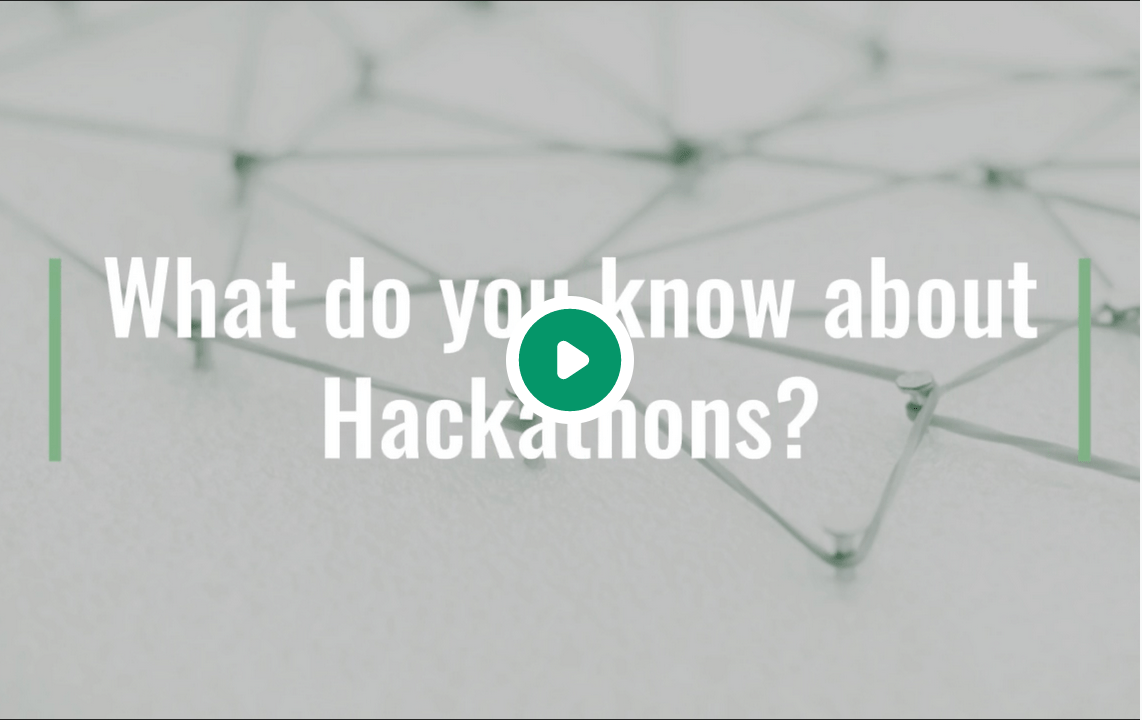
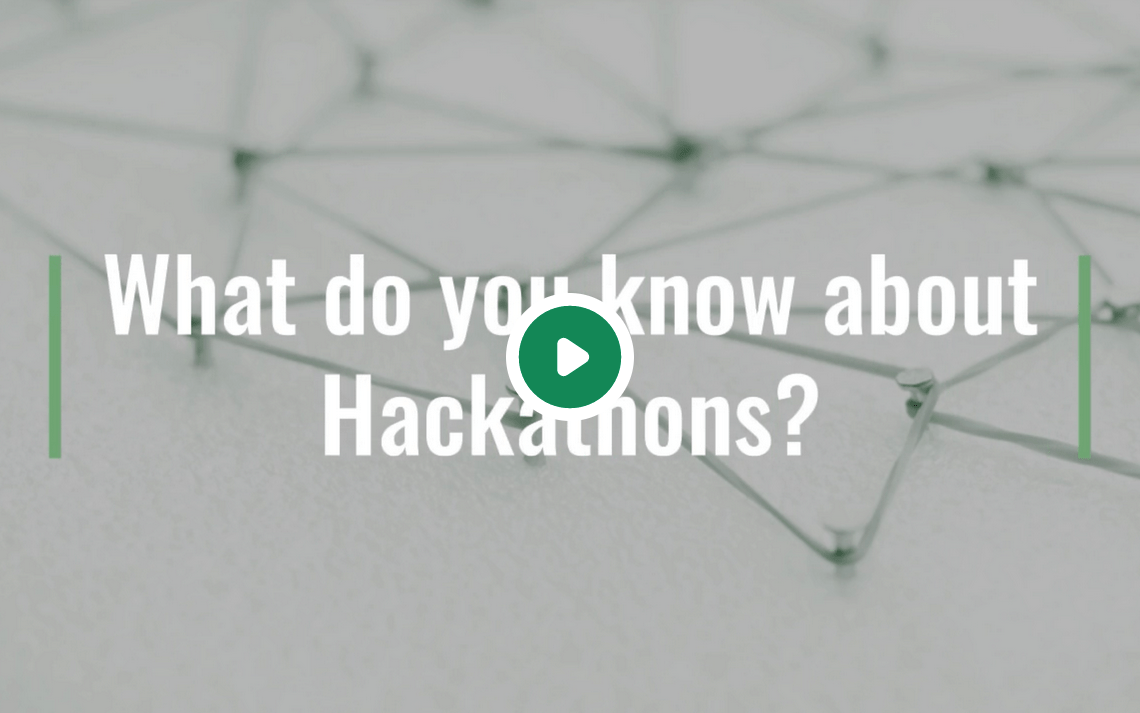
design updated

diff --git a/src/components/home/about.js b/src/components/home/about.js
@@ -14,7 +14,7 @@ const About = () => {
     const questions = [
         {
             title: 'How to Register?',
-            info: `All you need to do is click on the <a target='_blank' rel="noopener noreferrer" href='https://www.eventbrite.ca/e/senecas-sustainability-hackathon-2022-registration-205162405277' class='has-text-bold is-underlined has-text-success'>registration link</a> and register using our eventbrite page.`,
+            info: `All you need to do is click on the <a target='_blank' rel="noopener noreferrer" href='https://www.eventbrite.ca/e/senecas-sustainability-hackathon-2022-registration-205162405277' class='has-text-bold is-underlined has-text-green'>registration link</a> and register using our eventbrite page.`,
             image: image_1
         },
         {
@@ -39,33 +39,42 @@ const About = () => {
             <div className="hero-body hero-body-2">
                 <div className='columns'>
                     <div className='column is-10 is-offset-1'>
-                        <h1 className="title">What is a Hackathon?</h1>
-                        <div className="card">
-                            <div className="card-content min-height-365">
-                                <div className="content columns flex-wrap">
-                                    <div className='column is-6-desktop is-12-tablet video-container'> 
-                                        {video_clicked 
-                                        ? 
-                                            <ReactPlayer
-                                                url="https://www.youtube.com/watch?v=foA8JE2WcJk"
-                                                controls={true}
-                                                width="100%"
-                                                height="316px"
-                                                playing={true}
-                                            />
-                                        : 
-                                            <img src={video_thumbnail} alt="What is a Hackathon?" className='pointer is-marginless' width="100%" onClick={() => {playVideoOnClick(true)}}/>
-                                        }
-                                    </div>
-                                    <div className='column text-container'> 
-                                        <p className="has-text-green has-text-weight-bold">A call for everyone who is interested in solving the problem!</p>
-                                        <p className="subtitle has-text-grey is-size-6 has-text-weight-normal line-height-2">
-                                        A hackathon is a problem-solving competition in which a diverse group of people form a team and decide to collaborate intensively to develop solutions to given problems or “challenge sets”. A cause hackathon, such as this Sustainability hackathon, is an event focussed on increasing awareness of global causes and providing avenues for participation to become engaged and involved in making the world a better place.
-                                        </p>
-                                    </div>
+                        <h1 className="title is-marginless">What is a Hackathon?</h1>
+                                <div className='text-container'> 
+                                    {/* <p className="has-text-green has-text-weight-bold">A call for everyone who is interested in solving the problem!</p> */}
+                                    <p className="subtitle is-size-6 has-text-weight-normal line-height-2">
+                                    A hackathon is a problem-solving competition in which a diverse group of people form a team and decide to collaborate intensively to develop solutions to given problems or “challenge sets”. A cause hackathon, such as this Sustainability hackathon, is an event focussed on increasing awareness of global causes and providing avenues for participation to become engaged and involved in making the world a better place.
+                                    </p>
+                                    <br/>
                                 </div>
-                            </div>
-                        </div>
+                                <div className='video-container is-hidden-touch'> 
+                                    {video_clicked 
+                                    ? 
+                                        <ReactPlayer
+                                            url="https://www.youtube.com/watch?v=foA8JE2WcJk"
+                                            controls={true}
+                                            width="100%"
+                                            height="450px"
+                                            playing={true}
+                                        />
+                                    : 
+                                        <img src={video_thumbnail} alt="What is a Hackathon?" className='pointer is-marginless' width="100%" onClick={() => {playVideoOnClick(true)}}/>
+                                    }
+                                </div>
+                                <div className='video-container-2 is-hidden-desktop'> 
+                                    {video_clicked 
+                                    ? 
+                                        <ReactPlayer
+                                            url="https://www.youtube.com/watch?v=foA8JE2WcJk"
+                                            controls={true}
+                                            width="100%"
+                                            height="300px"
+                                            playing={true}
+                                        />
+                                    : 
+                                        <img src={video_thumbnail} alt="What is a Hackathon?" className='pointer is-marginless' height={'300px'} onClick={() => {playVideoOnClick(true)}}/>
+                                    }
+                                </div>
                         <div className='about-questions columns'>
                             {
                                 questions.map((question, index) => (
@@ -78,7 +87,6 @@ const About = () => {
                                         <FlipCard
                                             front_content={`
                                                 <div class="card-front">
-                                                    <img src=${question.image} alt="about" width={'60px'}/>
                                                     <p class="title is-size-5 title-text">${question.title}</p>
                                                     <div><span></span></div>
                                                 </div>`

diff --git a/src/components/layout.css b/src/components/layout.css
@@ -599,7 +599,8 @@ pre tt:after {
 .navbar {
   min-height: 4.25rem;
   z-index: 10;
-  box-shadow: rgba(0, 0, 0, 0.1) 0px 1px 3px 0px, rgba(0, 0, 0, 0.06) 0px 1px 2px 0px;
+  /* box-shadow: rgba(0, 0, 0, 0.1) 0px 1px 3px 0px, rgba(0, 0, 0, 0.06) 0px 1px 2px 0px; */
+  background-color: #F3EAEA;
 }
 
 .navbar-menu{
@@ -617,17 +618,29 @@ pre tt:after {
   max-height: 4.25rem;
 }
 
+a.navbar-item, a.navbar-item{
+  color: #1C444C;
+  background-color: #F3EAEA;
+}
+
+
 a.navbar-item:hover, a.navbar-item:focus{
-  color: #059669;
-  background-color: white;
+  color: #1C444C;
+  text-decoration: underline;
+  background-color: #F3EAEA;
 }
 
 .has-text-green{
-  color: #059669 !important;
+  color: #1C444C !important;
 }
 
 .hero-body{
   padding-bottom: 2rem !important;
+  background-color: #F3EAEA;
+}
+
+body, html{
+  background-color: #F3EAEA;
 }
 
 .hero-body-2{
@@ -644,7 +657,7 @@ a.navbar-item:hover, a.navbar-item:focus{
 }
 
 .button.is-success, .button.is-success:hover, .button.is-success.is-hovered{
-  background-color: #059669;
+  background-color: #1C444C;
 }
 
 .line-height-1{
@@ -655,8 +668,20 @@ a.navbar-item:hover, a.navbar-item:focus{
   line-height: 2rem;
 }
 
+.card-2{
+  border: 1px solid #1C444C;
+  box-shadow: none;
+  border-radius: 5px;
+}
+
+.card-3{
+  box-shadow: none;
+  border: 1px solid #1C444C;
+  border-radius: 5px;
+}
+
 .text-container {
-  padding-top: 2rem;
+  padding-top: 1rem;
 }
 
 .text-container > p{
@@ -718,7 +743,7 @@ div.sponsor-list:last-child {
 }
 
 .timeline .timeline-item .number{
-  background-color: #059669;
+  background-color: #1C444C;
   color: white;
   font-size: 1.5rem;
   border-radius: 50%;
@@ -746,6 +771,10 @@ div.sponsor-list:last-child {
   align-items: center;
   justify-content: center;
   text-align: center;
+  background-color: white;
+  border: 3px solid #1C444C;
+  border-radius: 10px;
+  padding-top: 15px;
 }
 
 .sponsor-logo{
@@ -804,7 +833,7 @@ div.sponsor-list:last-child {
 .section-break hr{
   display: block; height: 1px;
   border: 0; 
-  border-top: 6px solid #059669;
+  border-top: 6px solid #1C444C;
   border-radius: 8px;
   padding: 0;
   background-color: transparent;
@@ -817,7 +846,7 @@ div.sponsor-list:last-child {
 }
 
 .social-media-icon{
-  background-color: #059669;
+  background-color: #1C444C;
   width: 40px;
   height: 40px;
   margin: 1rem;
@@ -848,8 +877,8 @@ div.sponsor-list:last-child {
 }
 
 .time-left .value{
-  border: 2px solid #059669;
-  color: #059669;
+  border: 2px solid #1C444C;
+  color: #1C444C;
   padding: 1rem 0.5rem 0.5rem 0.5rem;
   width: 75px;
   font-size: 1.8rem;
@@ -888,6 +917,7 @@ div.sponsor-list:last-child {
 .card-front .title{
   line-height: 2rem !important;
   margin-bottom: 0px;
+  margin-top: 80px;
 }
 
 .right-icon{
@@ -905,4 +935,19 @@ div.sponsor-list:last-child {
 
 .challengesets .card{
   height: 100%;
+}
+
+.video-container{
+  margin: 1rem 8rem;
+}
+
+.video-container img{
+  height: 450px;
+  border: 1px solid black;
+  border-radius: 4px;
+}
+
+.video-container-2 img{
+  border: 1px solid black;
+  border-radius: 4px;
 }

diff --git a/src/components/home/organizers.js b/src/components/home/organizers.js
@@ -81,15 +81,12 @@ const Organizers = () => {
             <div className="hero-body hero-body-2">
                 <div className='columns'>
                     <div className='column is-10 is-offset-1'>
-                        <h1 className="title">Organizers</h1>
-                        <h2 className="subtitle has-text-grey is-size-6 has-text-weight-normal">
-                        Check our awesome organizing committee
-                        </h2>
+                        <h1 className="title">Our Organizing Committee</h1><br/>
                         <div className='organizers columns flex-wrap'>
                             {
                                 organizers.map((organizer, index) => (
                                     <div key={index} className='column is-3'>
-                                        <div className="card">
+                                        <div className="card card-3">
                                             <div className="card-image">
                                                 <figure className="image is-1by1">
                                                     <img src={organizer.image} alt="organizer"/>
@@ -98,7 +95,7 @@ const Organizers = () => {
                                             <div className="card-content">
                                                 <div className="content organizer-card-content">
                                                     <p className='subtitle name is-size-6 has-text-weight-bold line-height-1'>{organizer.name}</p>
-                                                    <p className='subtitle designation has-text-grey is-size-6 has-text-weight-normal line-height-1'>{organizer.title}</p>
+                                                    <p className='subtitle designation is-size-6 has-text-weight-normal line-height-1'>{organizer.title}</p>
                                                     <a target='_blank' rel="noopener noreferrer" href={organizer.linkedin_url}><img src={linkedin_icon} alt="linkedin" className='linkedin-icon'/></a>
                                                 </div>
                                             </div>

diff --git a/src/components/home/sponsors.js b/src/components/home/sponsors.js
@@ -61,15 +61,12 @@ const Sponsors = () => {
                 <div className='columns'>
                     <div className='column is-10 is-offset-1'>
                         <h1 className="title">Our Sponsors</h1>
-                        <h2 className="subtitle has-text-grey is-size-6 has-text-weight-normal">
-                        Sponsors who are helping us make this Hackathon a success.
-                        </h2>
                         <div className='sponsors'>
                             {
                                 sponsors.map((sponsor, index) => (
                                     <div key={index} className='sponsor-list'>
                                         <h2 className='subtitle has-text-weight-bold'>{sponsor.title}</h2>
-                                        <div className='sponsor-logos  is-flex-tablet '>
+                                        <div className='sponsor-logos is-flex-tablet'>
                                             {
                                                 sponsor.logos.map((logo, index) => (
                                                     <div key={index} className='sponsor-logo'>

diff --git a/src/components/home/hero.js b/src/components/home/hero.js
@@ -24,10 +24,10 @@ const hero = () => {
                 <div className='columns'>
                     <div className='column is-12-tablet is-5-desktop is-offset-1 hero-content'>
                         <p className="title">
-                            <span className='has-text-grey'>from</span> Industrial Revolution
+                            <span>From</span> Industrial Revolution
                         </p>
                         <p className="title">
-                            <span className='has-text-grey'>to</span> <span className='has-text-green'>Sustainable Planet</span>
+                            <span className='has-text-green'>To</span> <span className='has-text-green'>Sustainable Planet</span>
                         </p>
                         <p className="title">
                             <a className='button is-success' target='_blank' rel="noopener noreferrer" href='https://www.eventbrite.ca/e/senecas-sustainability-hackathon-2022-registration-205162405277'>

diff --git a/src/components/home/challengesets.js b/src/components/home/challengesets.js
@@ -35,7 +35,7 @@ const Challengesets = () => {
                             {
                                 challengesets.map((challengeset, index) => (
                                     <div key={index} className='column'>
-                                        <div className="card">
+                                        <div className="card card-2">
                                             <div className="card-image">
                                                 <figure className="image is-2by1">
                                                     <img src={challengeset.image} alt="organizer"/>

diff --git a/src/components/reusable/flipcard.js b/src/components/reusable/flipcard.js
@@ -12,9 +12,10 @@ const FlipCardComponent = ({front_content, back_content}) => {
         borderRadius: 5,
         backgroundColor: "#fff",
         width: '100%',
-        height: '300px',
+        height: '250px',
         overflow: 'auto',
         position: 'relative',
+        border: `3px solid #1C444C`,
         boxShadow: `0 0.5em 1em -0.125em rgba(10, 10, 10, 0.1), 0 0px 0 1px rgba(10, 10, 10, 0.02)`
     };
     

diff --git a/src/components/layout.js b/src/components/layout.js
@@ -39,7 +39,7 @@ const Layout = ({ children }) => {
             marginTop: `2rem`,
             marginBottom: `2rem`,
             textAlign: 'center',
-            borderTop: '4px solid #059669',
+            borderTop: '4px solid #1C444C',
             paddingTop: '3rem'
           }}
         >
